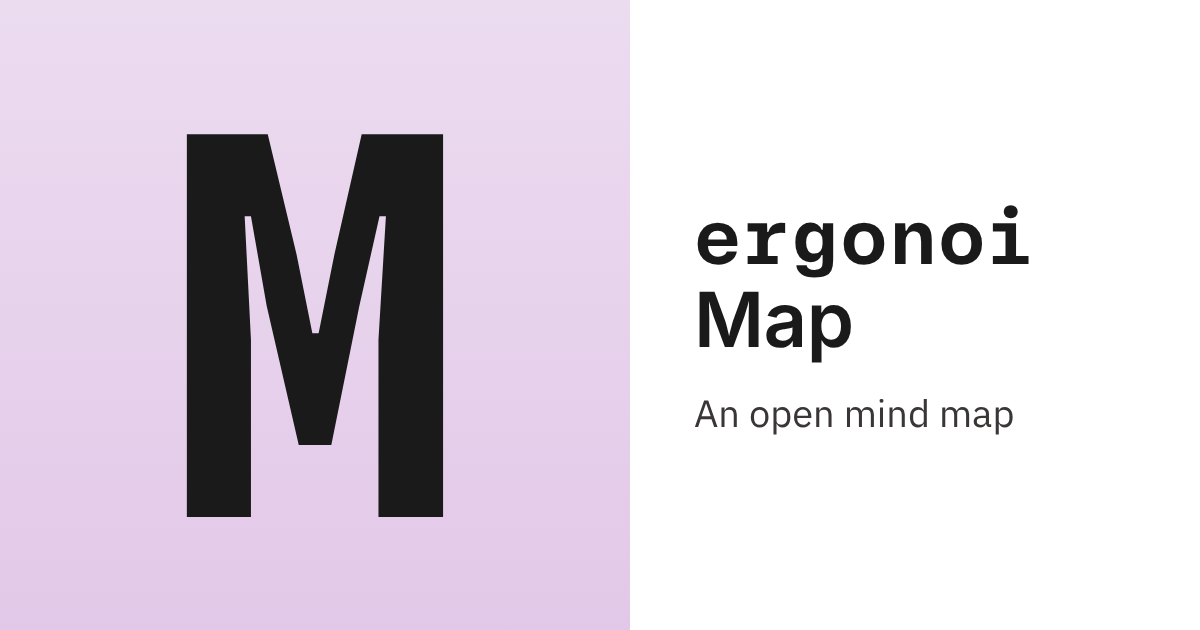
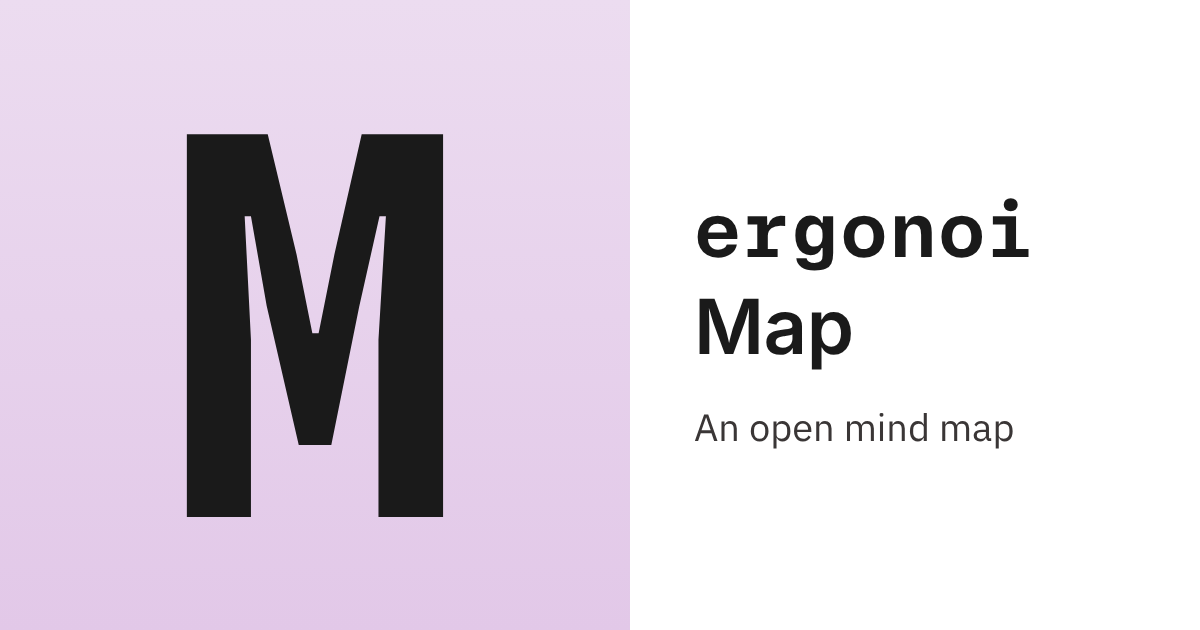
Link preview: more space between the two lines of the name

Changed region(s): [[0.5858, 0.3016, 0.8633, 0.4524], [0.555, 0.6333, 0.8633, 0.7238], [0.5858, 0.4524, 0.7092, 0.573]]

diff --git a/icons/src/og.html b/icons/src/og.html
@@ -17,7 +17,7 @@ html, body { margin:0; }
 .ergonoi .icon { background:linear-gradient(#ECDCF0, #E2C8E8); }
 .ergonoi .icon span { font:700 525px/1 Mona; color:#1A1A1A; }
 .t { padding:0 64px; display:flex; flex-direction:column; justify-content:center; gap:26px; }
-.t h1 { margin:0; font-family:Inter; font-weight:600; font-size:76px; letter-spacing:-.5px; color:#1A1A1A; line-height:1.1; }
+.t h1 { margin:0; font-family:Inter; font-weight:600; font-size:76px; letter-spacing:-.5px; color:#1A1A1A; line-height:1.28; }
 .t h1 .bw { font-family:Mona; font-weight:700; letter-spacing:.025em; }
 .t p { margin:0; font-size:38px; line-height:1.3; color:#3A3636; }
 </style></head><body><div class="c" id="c"><div class="icon"><span>M</span></div><div class="t">
